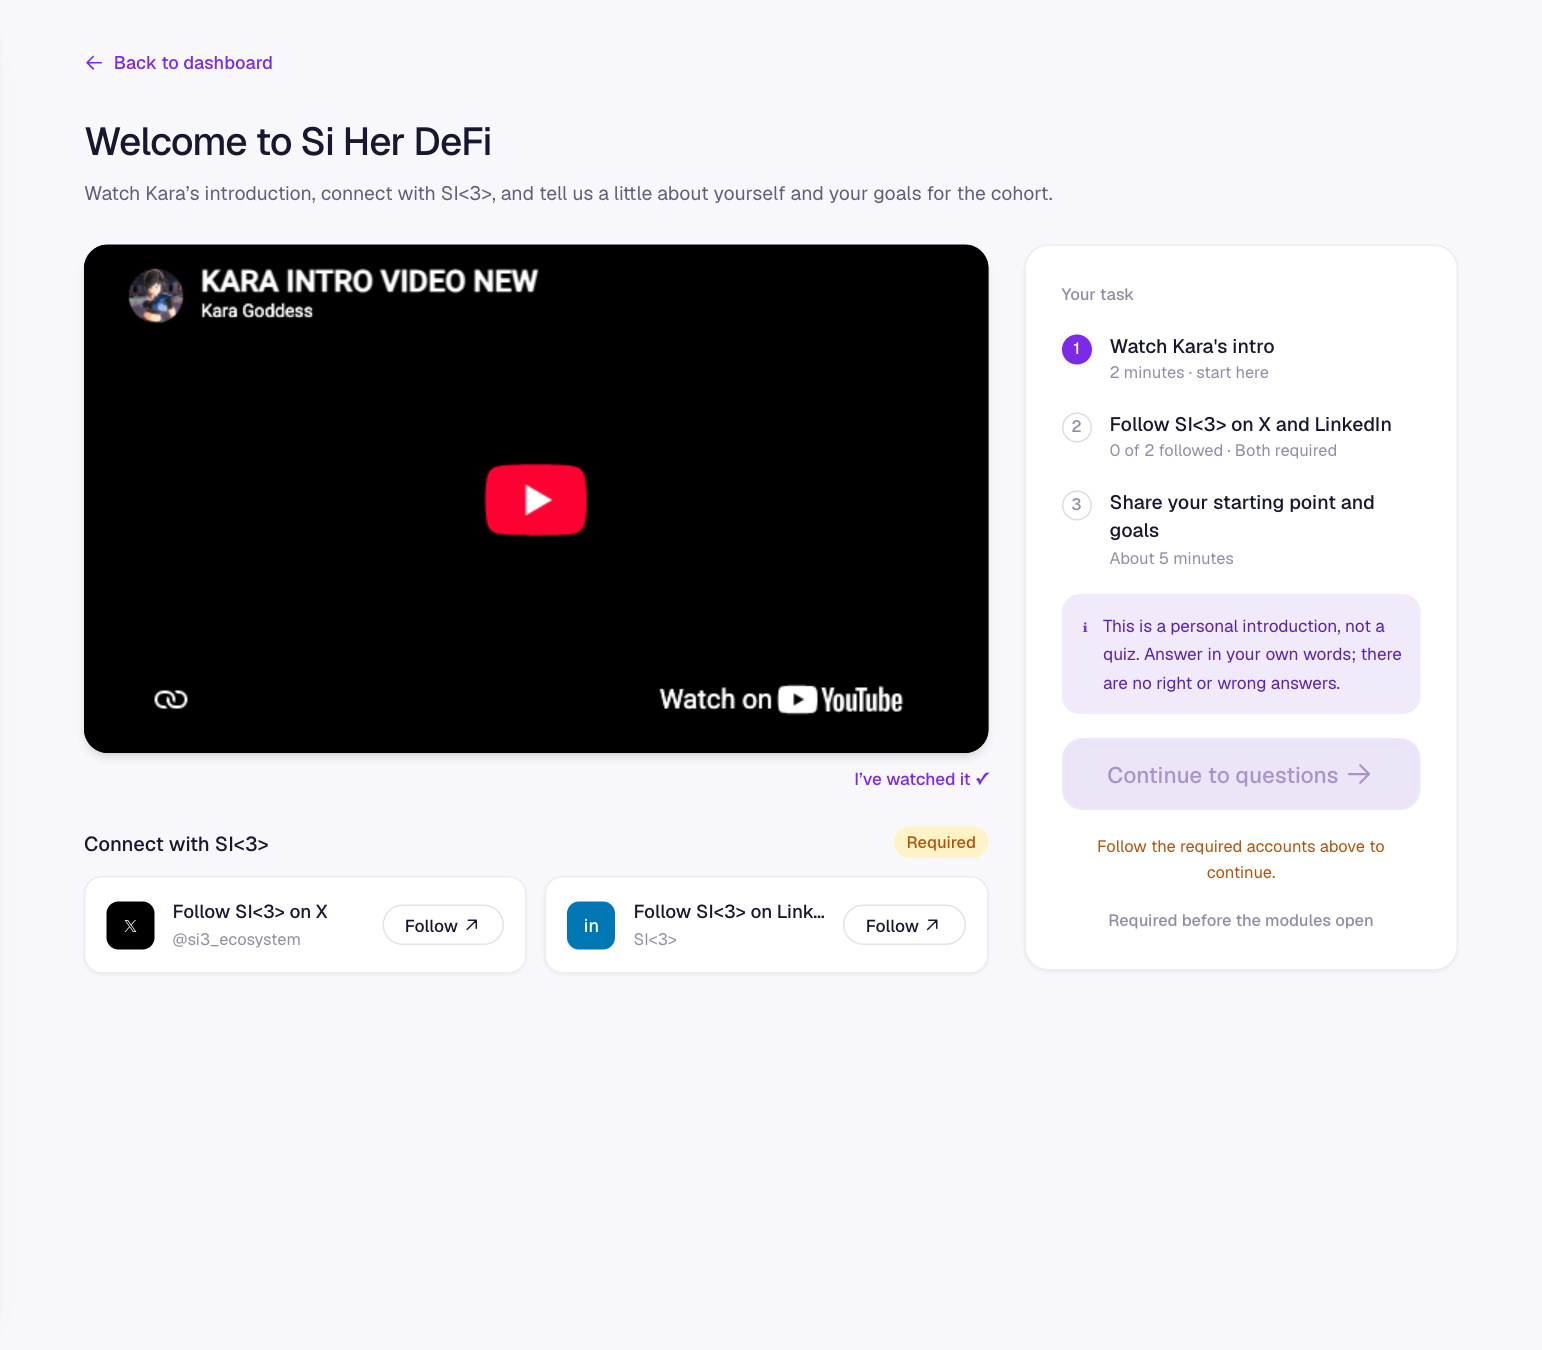
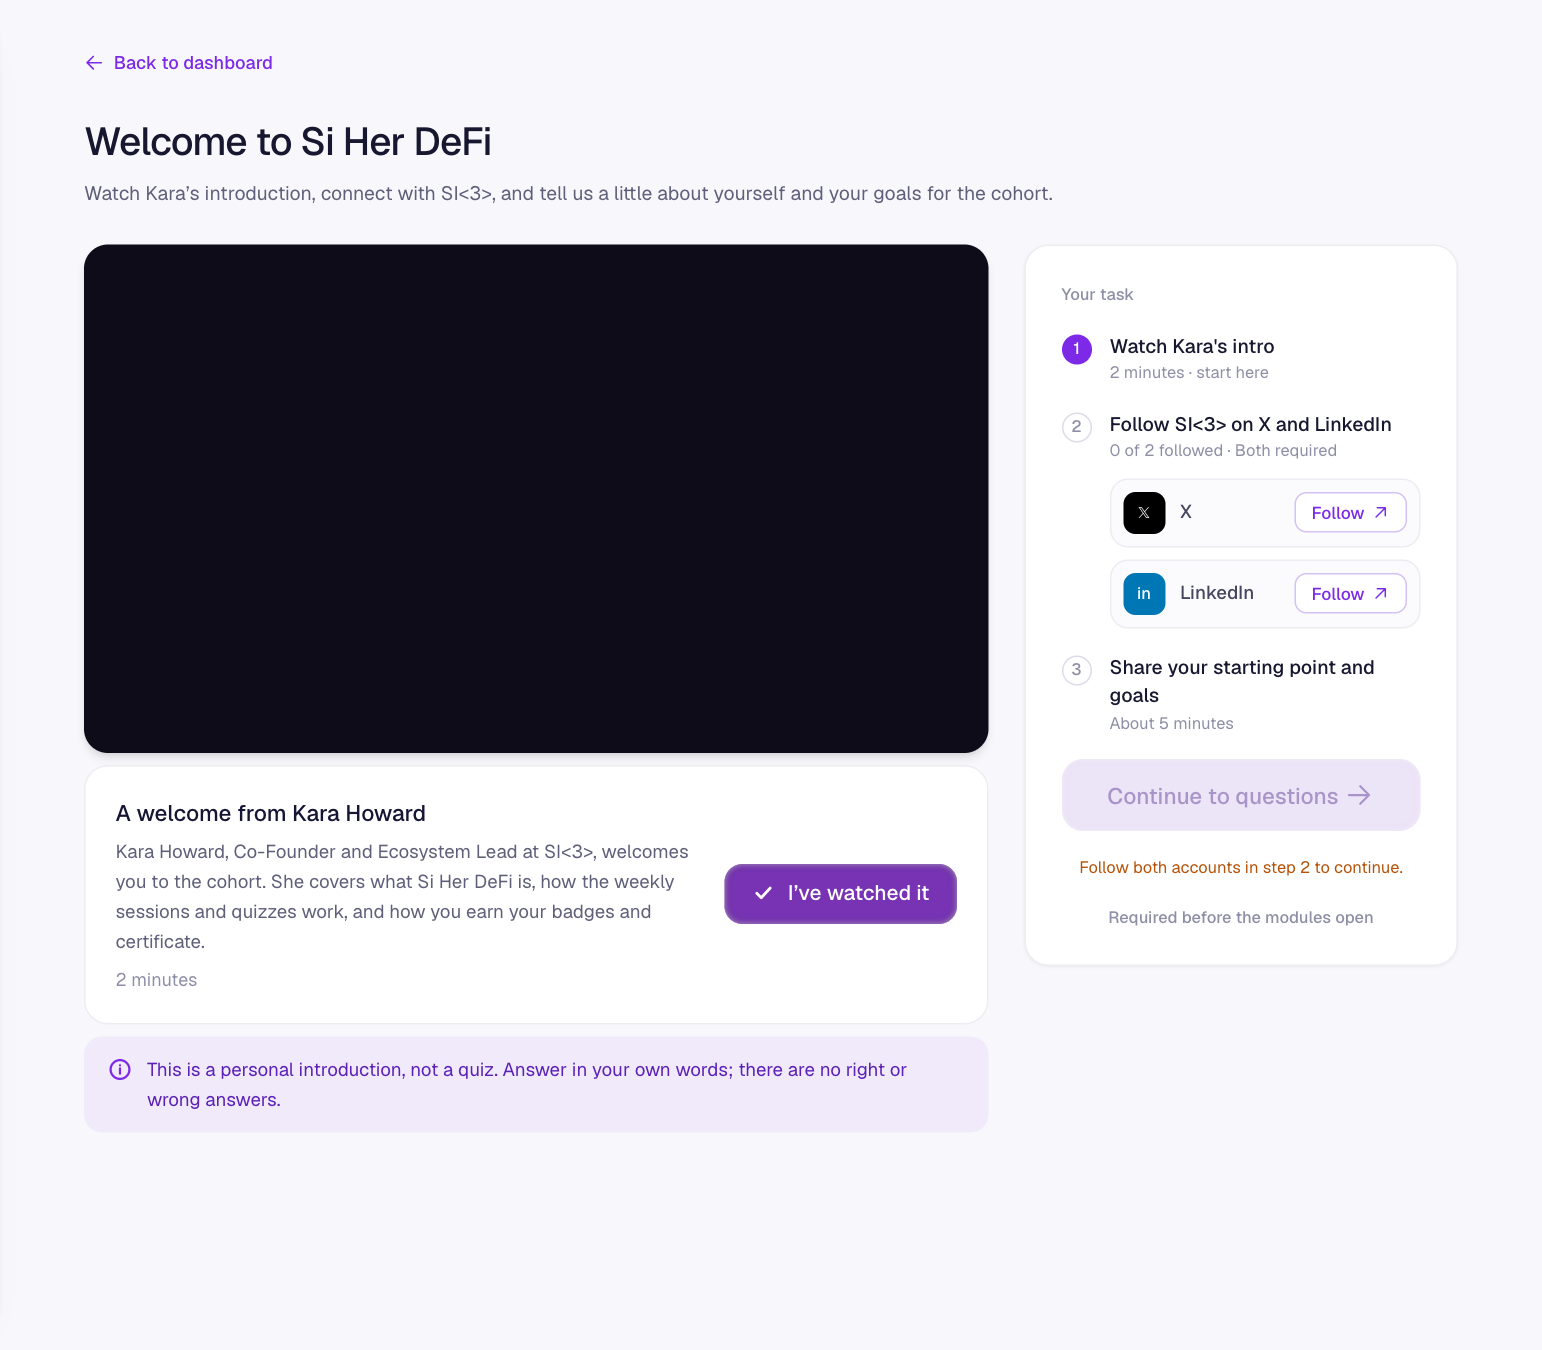
Onboarding Part 1: video description with Watched button, follows inside the task panel, note under the video

diff --git a/src/app/(app)/onboard/page.tsx b/src/app/(app)/onboard/page.tsx
@@ -18,14 +18,19 @@ const embed = (url: string) => {
 };
 
 type StepState = 'done' | 'current' | 'todo';
-function Step({ n, state, title, sub }: { n: number; state: StepState; title: string; sub: string }) {
+// Shown under the intro video. Prototype copy: in the real app these are CMS fields (e.g. video.title, video.description).
+const VIDEO_TITLE = 'A welcome from Kara Howard';
+const VIDEO_DESCRIPTION = 'Kara Howard, Co-Founder and Ecosystem Lead at SI<3>, welcomes you to the cohort. She covers what Si Her DeFi is, how the weekly sessions and quizzes work, and how you earn your badges and certificate.';
+
+function Step({ n, state, title, sub, children }: { n: number; state: StepState; title: string; sub: string; children?: React.ReactNode }) {
   const dot = state === 'done' ? 'bg-[#16a34a] text-white' : state === 'current' ? 'bg-[#7c2ae8] text-white' : 'border border-[#dcdce8] text-[#8e8ea6]';
   return (
     <div className="flex items-start gap-3">
       <span className={`grid size-5 shrink-0 place-items-center rounded-full text-[11px] font-medium mt-0.5 ${dot}`}>{state === 'done' ? '✓' : n}</span>
-      <div>
+      <div className="min-w-0 flex-1">
         <p className="text-[13px] font-medium text-[#171730]">{title}</p>
         <p className="text-[11px] text-[#8e8ea6]">{sub}</p>
+        {children}
       </div>
     </div>
   );
@@ -98,39 +103,26 @@ export default function OnboardPage() {
                 <p className="absolute inset-0 grid place-items-center text-[12px] text-white/60">The intro video will appear here soon.</p>
               )}
             </div>
-            {!progress.videoWatched && (
-              <div className="flex justify-end">
-                <button type="button" onClick={() => save({ videoWatched: true })} className="text-[11.5px] font-medium text-[#7c2ae8] hover:underline cursor-pointer">I’ve watched it ✓</button>
+            {/* what the video is about, and the button to mark it watched */}
+            <div className="flex flex-col gap-4 rounded-2xl border border-[#ececf2] bg-white p-4 sm:flex-row sm:items-center sm:p-5">
+              <div className="min-w-0 flex-1">
+                <p className="text-[15px] font-medium text-[#151534]">{VIDEO_TITLE}</p>
+                <p className="mt-1 text-[12.5px] leading-5 text-[#5f5f7a]">{VIDEO_DESCRIPTION}</p>
+                <p className="mt-1.5 text-[12px] text-[#8e8ea6]">{c.video.minutes} minutes</p>
               </div>
-            )}
-          </div>
-          <div className="space-y-3">
-            <div className="flex items-center justify-between">
-              <h2 className="text-[13.5px] font-medium text-[#171730]">{c.socialsHeading}</h2>
-              <span className={`rounded-full px-2 py-0.5 text-[11px] font-medium ${socialsDone ? 'bg-[#dcfce7] text-[#16a34a]' : 'bg-[#fef3c7] text-[#b45309]'}`}>{socialsDone ? 'Done' : 'Required'}</span>
+              {progress.videoWatched ? (
+                <span className="inline-flex h-10 shrink-0 items-center justify-center gap-2 rounded-xl border border-[#bbf7d0] bg-[#f0fdf4] px-4 text-[14px] font-medium text-[#16a34a]">
+                  <svg viewBox="0 0 16 16" aria-hidden="true" className="size-4" fill="none" stroke="currentColor" strokeWidth="1.8" strokeLinecap="round" strokeLinejoin="round"><path d="M3.5 8.5l3 3 6-6.5" /></svg>Watched
+                </span>
+              ) : (
+                <Button size="md" showIcon={false} onClick={() => save({ videoWatched: true })} className="shrink-0 max-sm:w-full">
+                  <span className="inline-flex items-center gap-2"><svg viewBox="0 0 16 16" aria-hidden="true" className="size-4" fill="none" stroke="currentColor" strokeWidth="1.8" strokeLinecap="round" strokeLinejoin="round"><path d="M3.5 8.5l3 3 6-6.5" /></svg><span>I’ve watched it</span></span>
+                </Button>
+              )}
             </div>
-            <div className="grid grid-cols-1 gap-3 sm:grid-cols-2">
-              {socials.map((s) => {
-                const followed = progress.followedSocialIds.includes(s.id);
-                return (
-                  <div key={s.id} className="flex items-center justify-between gap-3 rounded-xl border border-[#ececf2] bg-white p-3.5 shadow-xs">
-                    <div className="flex min-w-0 items-center gap-3">
-                      <span className={`grid size-8 shrink-0 place-items-center rounded-lg text-white font-medium text-xs ${s.platform === 'x' ? 'bg-black' : 'bg-[#0077b5]'}`}>{s.platform === 'x' ? '𝕏' : 'in'}</span>
-                      <div className="min-w-0">
-                        <p className="truncate text-[12.5px] font-medium text-[#171730]">{s.label}</p>
-                        <p className="truncate text-[11px] text-[#8e8ea6]">{s.handle}</p>
-                      </div>
-                    </div>
-                    <a
-                      href={s.url} target="_blank" rel="noopener noreferrer"
-                      onClick={() => { if (!followed) save({ followedSocialIds: [...progress.followedSocialIds, s.id] }); }}
-                      className={`shrink-0 rounded-full border px-3.5 py-1 text-[11.5px] font-medium transition cursor-pointer ${followed ? 'border-[#bbf7d0] bg-[#f0fdf4] text-[#16a34a]' : 'border-[#e2e2ec] text-[#171730] hover:bg-gray-50 hover:border-[#7c2ae8]'}`}
-                    >
-                      {followed ? 'Followed ✓' : <>Follow <Arrow dir="up-right" /></>}
-                    </a>
-                  </div>
-                );
-              })}
+            <div className="flex items-start gap-2.5 rounded-xl bg-[#f0eafb] px-4 py-3 text-[12.5px] leading-5 text-[#5b21b6]">
+              <svg viewBox="0 0 16 16" aria-hidden="true" className="mt-0.5 size-4 shrink-0 text-[#7c2ae8]" fill="none" stroke="currentColor" strokeWidth="1.5" strokeLinecap="round"><circle cx="8" cy="8" r="6.25" /><path d="M8 7.25v3.5M8 5.25h.01" /></svg>
+              <span>{c.taskNote}</span>
             </div>
           </div>
         </div>
@@ -139,12 +131,27 @@ export default function OnboardPage() {
             <h3 className="text-[11px] font-medium text-[#8e8ea6]">Your task</h3>
             <div className="space-y-4">
               <Step n={1} state={steps[0]} title={c.tasks.video} sub={`${c.video.minutes} minutes · ${progress.videoWatched ? 'watched' : 'start here'}`} />
-              <Step n={2} state={steps[1]} title={c.tasks.socials} sub={`${followedCount} of ${required.length} followed · Both required`} />
+              <Step n={2} state={steps[1]} title={c.tasks.socials} sub={`${followedCount} of ${required.length} followed · Both required`}>
+                <div className="mt-2.5 space-y-2">
+                  {socials.map((soc) => {
+                    const followed = progress.followedSocialIds.includes(soc.id);
+                    return (
+                      <div key={soc.id} className="flex items-center gap-2.5 rounded-xl border border-[#ececf2] bg-[#fbfbfd] p-2">
+                        <span className={`grid size-7 shrink-0 place-items-center rounded-lg text-[11px] font-medium text-white ${soc.platform === 'x' ? 'bg-black' : 'bg-[#0077b5]'}`}>{soc.platform === 'x' ? '𝕏' : 'in'}</span>
+                        <span className="min-w-0 flex-1 truncate text-[12.5px] font-medium text-[#45465f]" title={soc.handle}>{soc.platform === 'x' ? 'X' : 'LinkedIn'}</span>
+                        <a
+                          href={soc.url} target="_blank" rel="noopener noreferrer"
+                          onClick={() => { if (!followed) save({ followedSocialIds: [...progress.followedSocialIds, soc.id] }); }}
+                          className={`inline-flex shrink-0 items-center gap-1 rounded-lg border px-2.5 py-1 text-[11.5px] font-medium transition ${followed ? 'border-[#bbf7d0] bg-[#f0fdf4] text-[#16a34a]' : 'border-[#d4c2f5] bg-white text-[#7c2ae8] hover:bg-[#f8f5fe]'}`}
+                        >
+                          {followed ? 'Followed ✓' : <>Follow <Arrow dir="up-right" /></>}
+                        </a>
+                      </div>
+                    );
+                  })}
+                </div>
+              </Step>
               <Step n={3} state={steps[2]} title={c.tasks.questions} sub={`About ${c.questionsMinutes} minutes`} />
-            </div>
-            <div className="rounded-xl bg-[#f0eafb] p-3 text-[#5b21b6] text-[11.5px] leading-relaxed flex items-start gap-2">
-              <span className="text-[#7c2ae8] font-medium" aria-hidden="true">ℹ</span>
-              <span>{c.taskNote}</span>
             </div>
             {completed ? (
               <ButtonLink href="/dashboard">Back to dashboard</ButtonLink>
@@ -153,7 +160,7 @@ export default function OnboardPage() {
                 <Button disabled={!socialsDone} onClick={() => setQuestionIndex(Math.max(0, questions.findIndex((x) => !progress.answers[x.id]?.trim())))}>
                   {hasAnswers ? 'Resume questions' : 'Continue to questions'}
                 </Button>
-                {!socialsDone && <p className="text-center text-[11px] text-[#b45309]">Follow the required accounts above to continue.</p>}
+                {!socialsDone && <p className="text-center text-[11px] text-[#b45309]">Follow both accounts in step 2 to continue.</p>}
               </>
             )}
             <p className="text-center text-[11px] font-medium text-[#8e8ea6]">Required before the modules open</p>

diff --git a/docs/handoff/04-onboarding-part1/README.md b/docs/handoff/04-onboarding-part1/README.md
@@ -1,4 +1,9 @@
 # 04 · Onboarding Part 1 (Welcome to Si Her DeFi)
 
-- The "● Get started · Si Her DeFi" tag above the title is removed; the page starts with "Back to dashboard" then the title.
-- `state-video-not-watched.png`: first visit. Step 1 "Watch Kara's intro" is active (purple 1, "2 minutes · start here"), steps 2 and 3 are outlined, "I've watched it ✓" sits under the video, both follow buttons show "Follow ↗" with a yellow **Required** tag, and "Continue to questions" is Disabled with "Follow the required accounts above to continue." under it.
+Screenshots: `state-video-not-watched.png`, `state-in-progress.png` (watched, 1 of 2 followed), `state-mobile.png`.
+
+- The "● Get started · Si Her DeFi" tag above the title is removed.
+- **Under the video, a description box:** title "A welcome from Kara Howard", a short description, "2 minutes", and **I've watched it** (Button · Primary md, check icon) on the right (full width on mobile). Once marked, it becomes a green "✓ Watched" label. Title and description are prototype copy; add `video.title` / `video.description` to the CMS.
+- **Note under the description box:** "This is a personal introduction, not a quiz…" (moved out of the task panel, `taskNote` from the CMS).
+- **"Connect with SI<3>" moves into the task panel** as part of step 2: one row per account (X, LinkedIn) with a Follow ↗ button that turns into "Followed ✓". The separate section under the video is gone.
+- "Continue to questions" stays Disabled until both are followed; the hint now reads "Follow both accounts in step 2 to continue."
